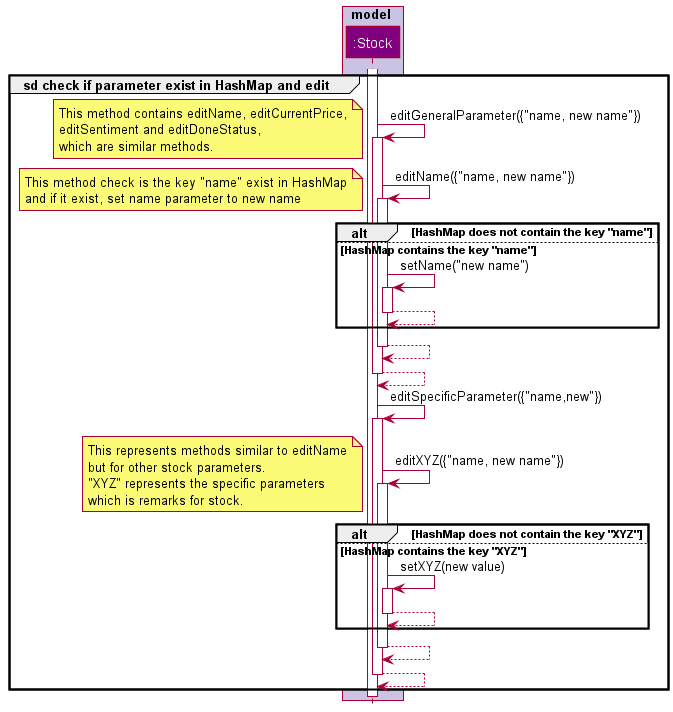
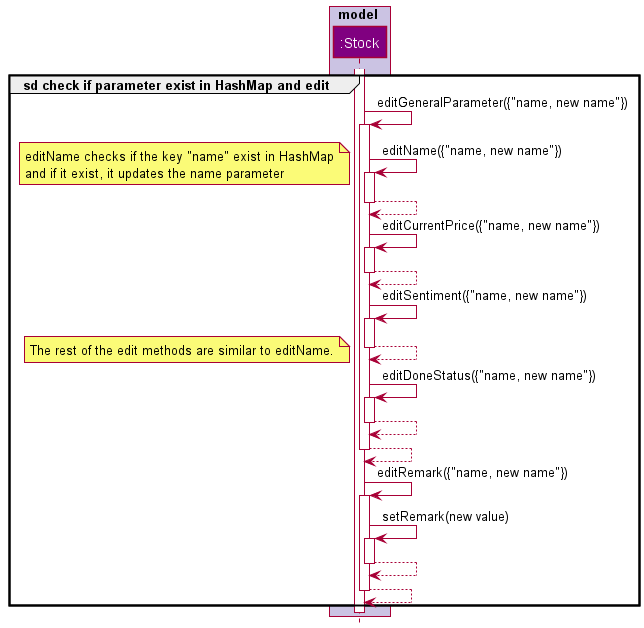
Fixed according to PR

Changed region(s): [[0.0, 0.0, 1.0, 0.9984]]

diff --git a/docs/DeveloperGuide.md b/docs/DeveloperGuide.md
@@ -171,17 +171,6 @@ Command component:
 * Other than ExitCommand and InvalidCommand, the other command classes are dependent of on the InstrumentManager in order to execute the required actions on the stored instruments.
 * The command classes are dependent on the `TextUi` class. This allows the command class to display its execution results to the user.
 
-
-The figure below represents the sequence diagram when the user executes a done command. In this scenario the user
-gave the command "done 1". Here "done" is the command keyword and "1" represents the current position of the instrument 
-in the list of instruments:
-
-<img src="images/DoneCryptoSequenceDiagram.png" width="1040"/>
-
-More details about the reference frame for executing the done command is shown below:
-
-<img src="images/DoneCryptoExecuteDiagram.png" width="600"/>
-
 ### FileManager Component
 The `filemanager` package contains the `Storage`, `InstrumentEncoder` and `InstrumentDecoder` classes. It is defined in
 the `Storage.java`, `InstrumentEncoder.java` and `InstrumentDecoder.java` respectively. This figure below represents the class diagram of
@@ -210,7 +199,7 @@ a higher level of abstraction.
 ## Implementation
 
 ### Add instrument feature
-The add instrument functionality is mainly handled by the `parser` and `commands` components. Within the `parser`
+The add instrument functionality is mainly handled by the `console` and `commands` components. Within the `parser`
 component, the `InputParser` class implements the method `InputParser#getAddInstrumentParameters()`. This method calls
 `AddInstrumentParser#filterByInstrumentType()` which will then guide the user through the process of adding a new
 instrument. 
@@ -234,6 +223,7 @@ prompt to get user to provide information for that attribute. This is done throu
 the `TextUi` class.
 
 ### Edit instrument feature
+
 The edit instrument functionality mainly involves the `console`, `commands` and `model` components. Within the `console`
 component, the `InputParser` class implements the method `InputParser#getEditInstrumentCommand()`. This method calls
 `InputParser#getParametersToEdit` which will prompt the users to input which parameters of the instrument to edit
@@ -244,28 +234,48 @@ The method `EditInstrumentParser#createEditCommand()` calls `EditInstrumentParse
 calls multiple individual methods that check if its parameters is being edited and to enter a new value for the 
 parameters.
 
+The execution of setting the new values of the parameters is handled by the `EditInstrumentCommand` class.
+
 The figure below represents the sequence diagram when the user wants to edit the name a stock:
 
-<img src="images/EditInstrumentSequenceDiagram.png" width="600"/>
+<img src="images/EditInstrumentSequenceDiagram.png" width="700"/>
 
-More details about the reference frame for checking if a parameters is entered and to add to HashMap if entered is given below:
+More details about the reference frame for getting the new edited parameters from the user is given below:
 
-<img src="images/EditRefrence.png" width="600"/>
+<img src="images/EditRefrence.png" width="700"/>
 
-More details about the execution of setting the stock with the new values is shown below: (in this case is setting the name parameter to new name)
+From the note in the reference diagram above, each parameter the user wants to edit,
+there would be an instructional prompt to guide the user to give a valid input. This is done through the `TextUi` class.
 
-<img src="images/EditExecuteSequenceDiagram.png" width="600"/>
+Below is the sequence diagram detailing the command execution of setting the stock with the new values (in this case is setting the name parameter to new name):
 
-More details about checking if parameters exist in HashMap and to edit the parameters if it exists is showm below:
+<img src="images/EditExecuteSequenceDiagram.png" width="700"/>
 
-<img src="images/EditExecuteRefrence.png" width="600"/>
+More details about checking if parameters exist in HashMap and to edit the parameters if it exists is shown below:
+
+<img src="images/EditExecuteRefrence.png" width="700"/>
 
 The process for editing other instruments or other parameters follow a similar process to the sequence above.
 The main difference would be the parameters collected from the user and the parameters allowed to be edited.
-For example the user can edit Entry Price in Crypto but not in Stock.
+For example the user can edit the expiry parameter in Crypto but not in Stock.
 
-Though not mention in the sequences diagram above, for every step of the feature, 
-there would be an instructional prompt to guide the user. This is done through the `TextUi` class.
+### Mark an instrument as done feature
+
+The done instrument functionality mainly involves the `console`, `commands` and `model` components. Within the `console`
+component, the `InputParser` class implements the method `InputParser#getDoneInstrumentCommand()`, which processes the index of instrument
+and check if the instrument has been previously marked as done. 
+
+The execution of marking the instrument as done is handled by the `DoneCommand`class.
+
+The figure below represents the sequence diagram when the user executes a done command. In this scenario the user
+gave the command "done 1". Here "done" is the command keyword and "1" represents the current position of the instrument
+in the list of instruments:
+
+<img src="images/DoneCryptoSequenceDiagram.png" width="1040"/>
+
+More details about the reference frame for executing the done command is shown below:
+
+<img src="images/DoneCryptoExecuteDiagram.png" width="600"/>
 
 ### Loading pre-existing data
 The loading of pre-existing data is mainly handled by the `filemanager` and `model` components. The main method calls 
